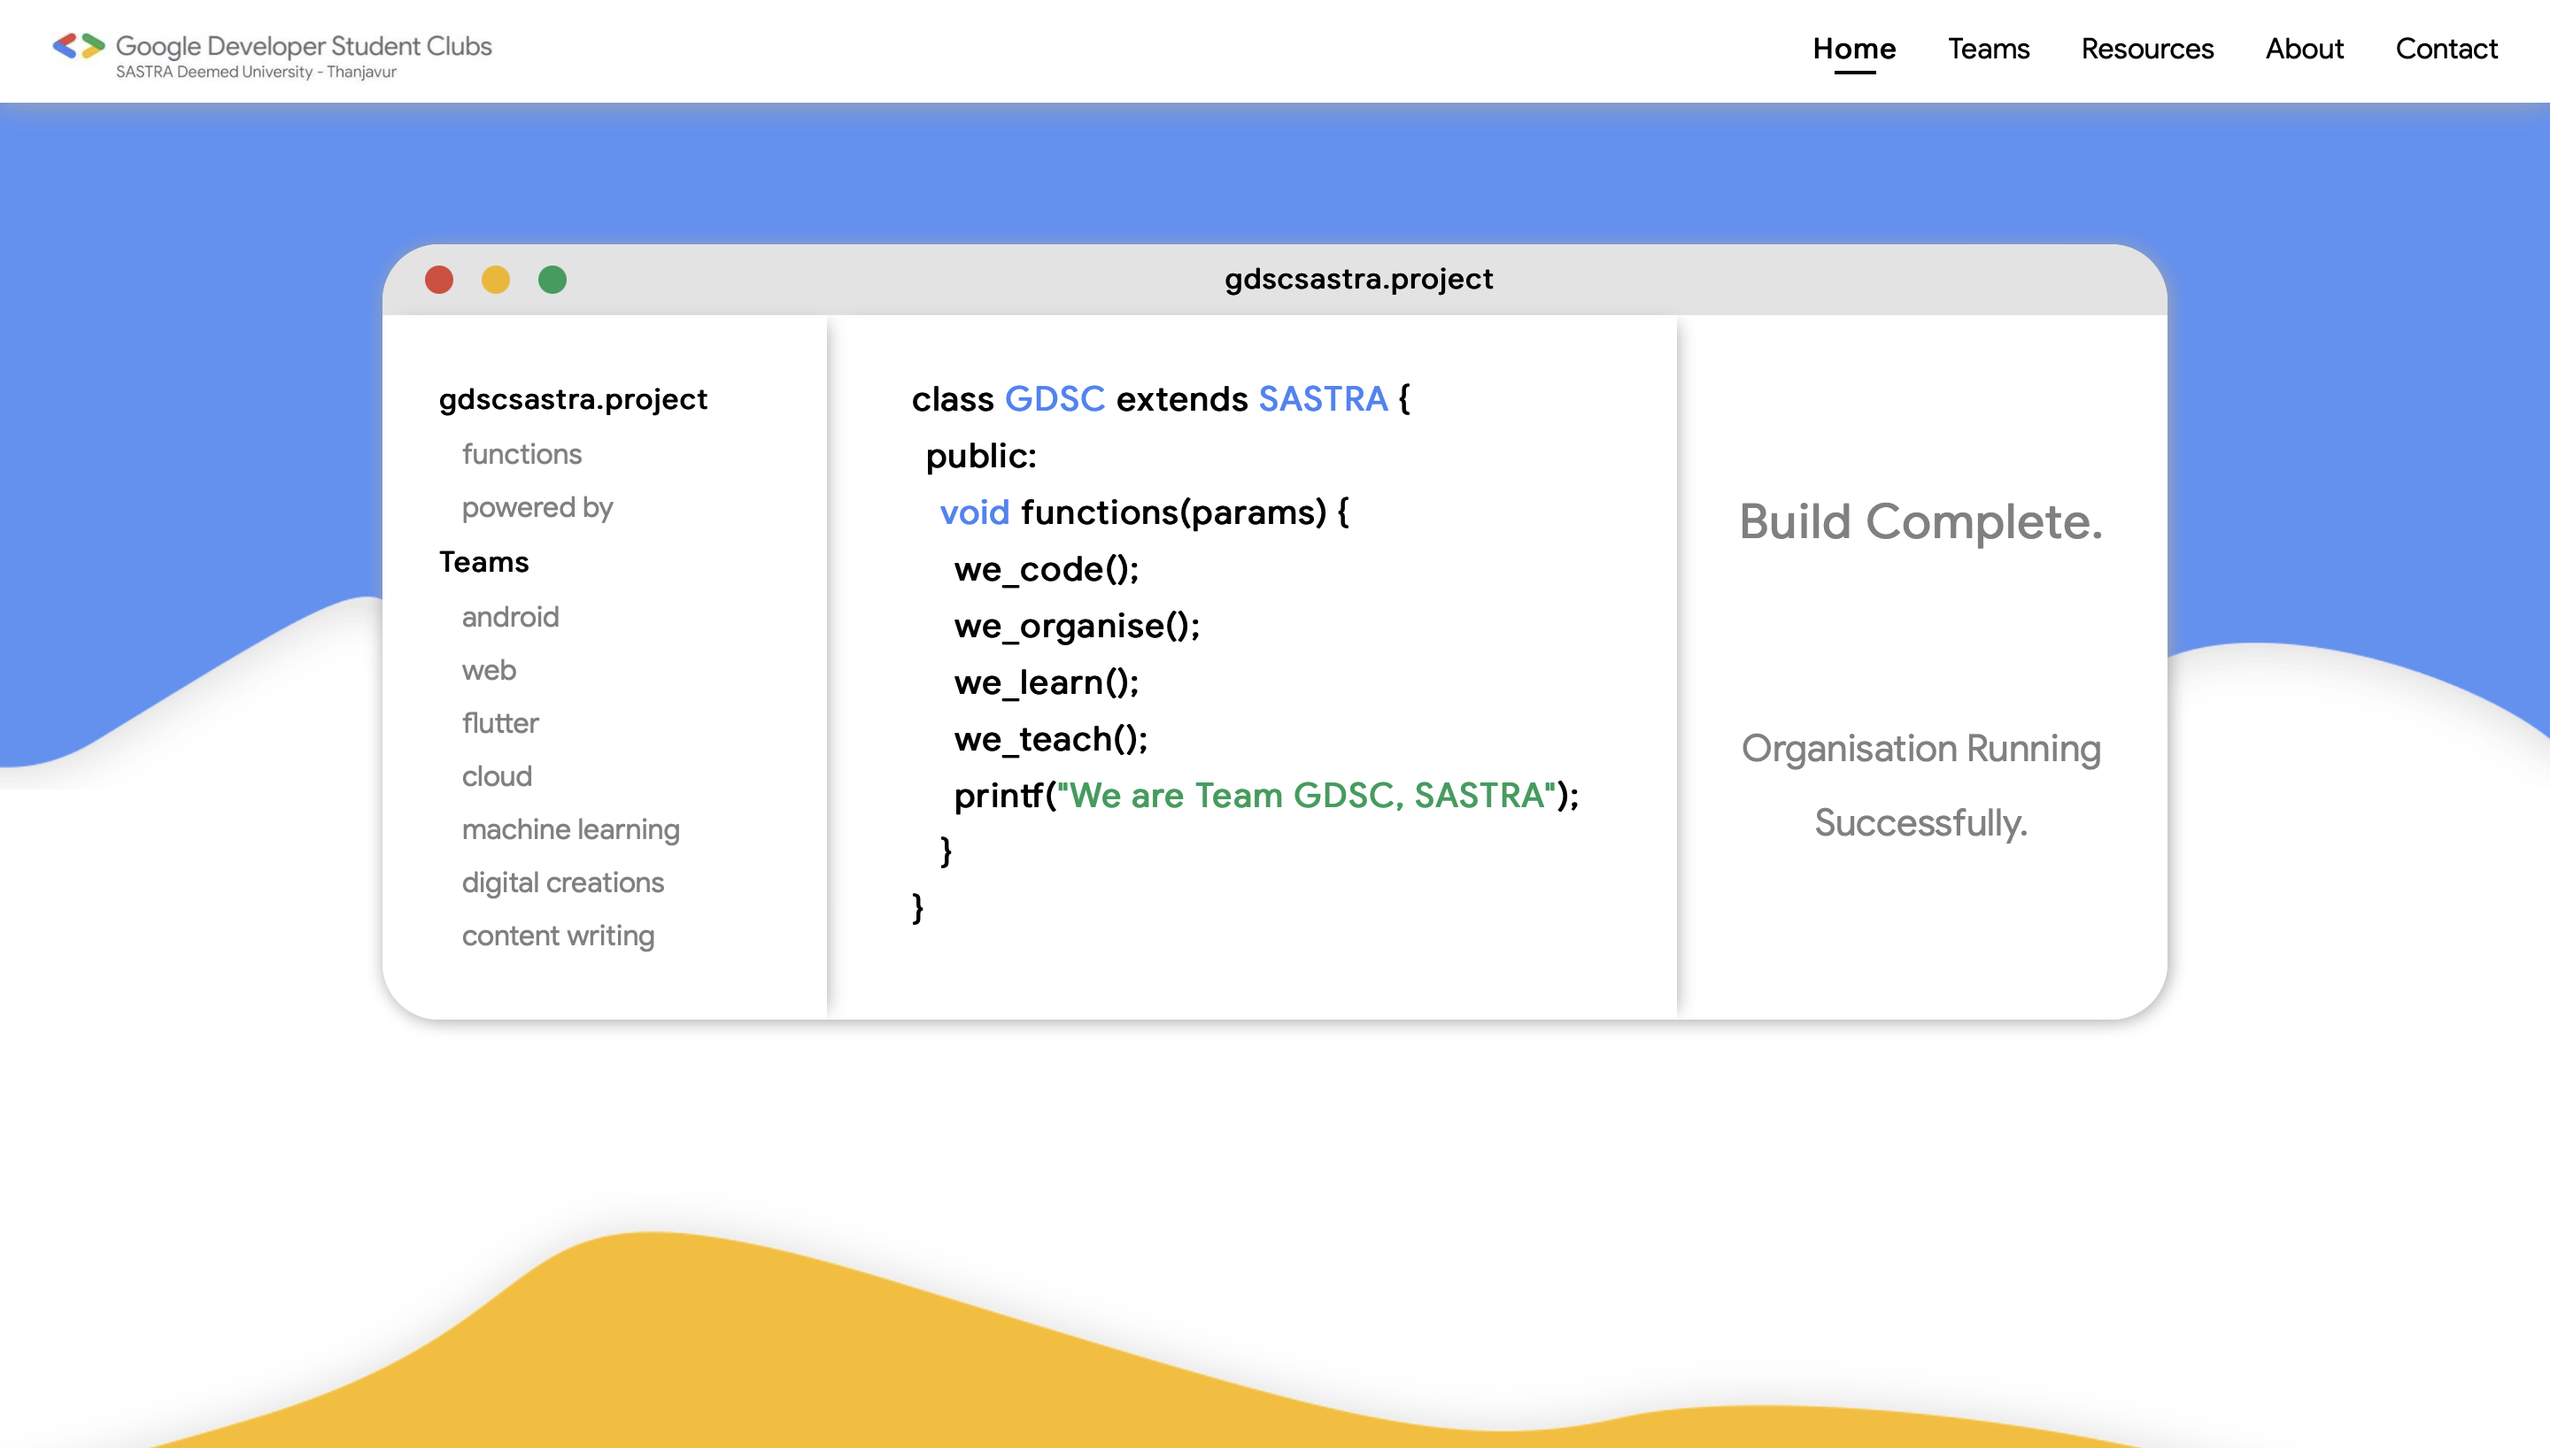
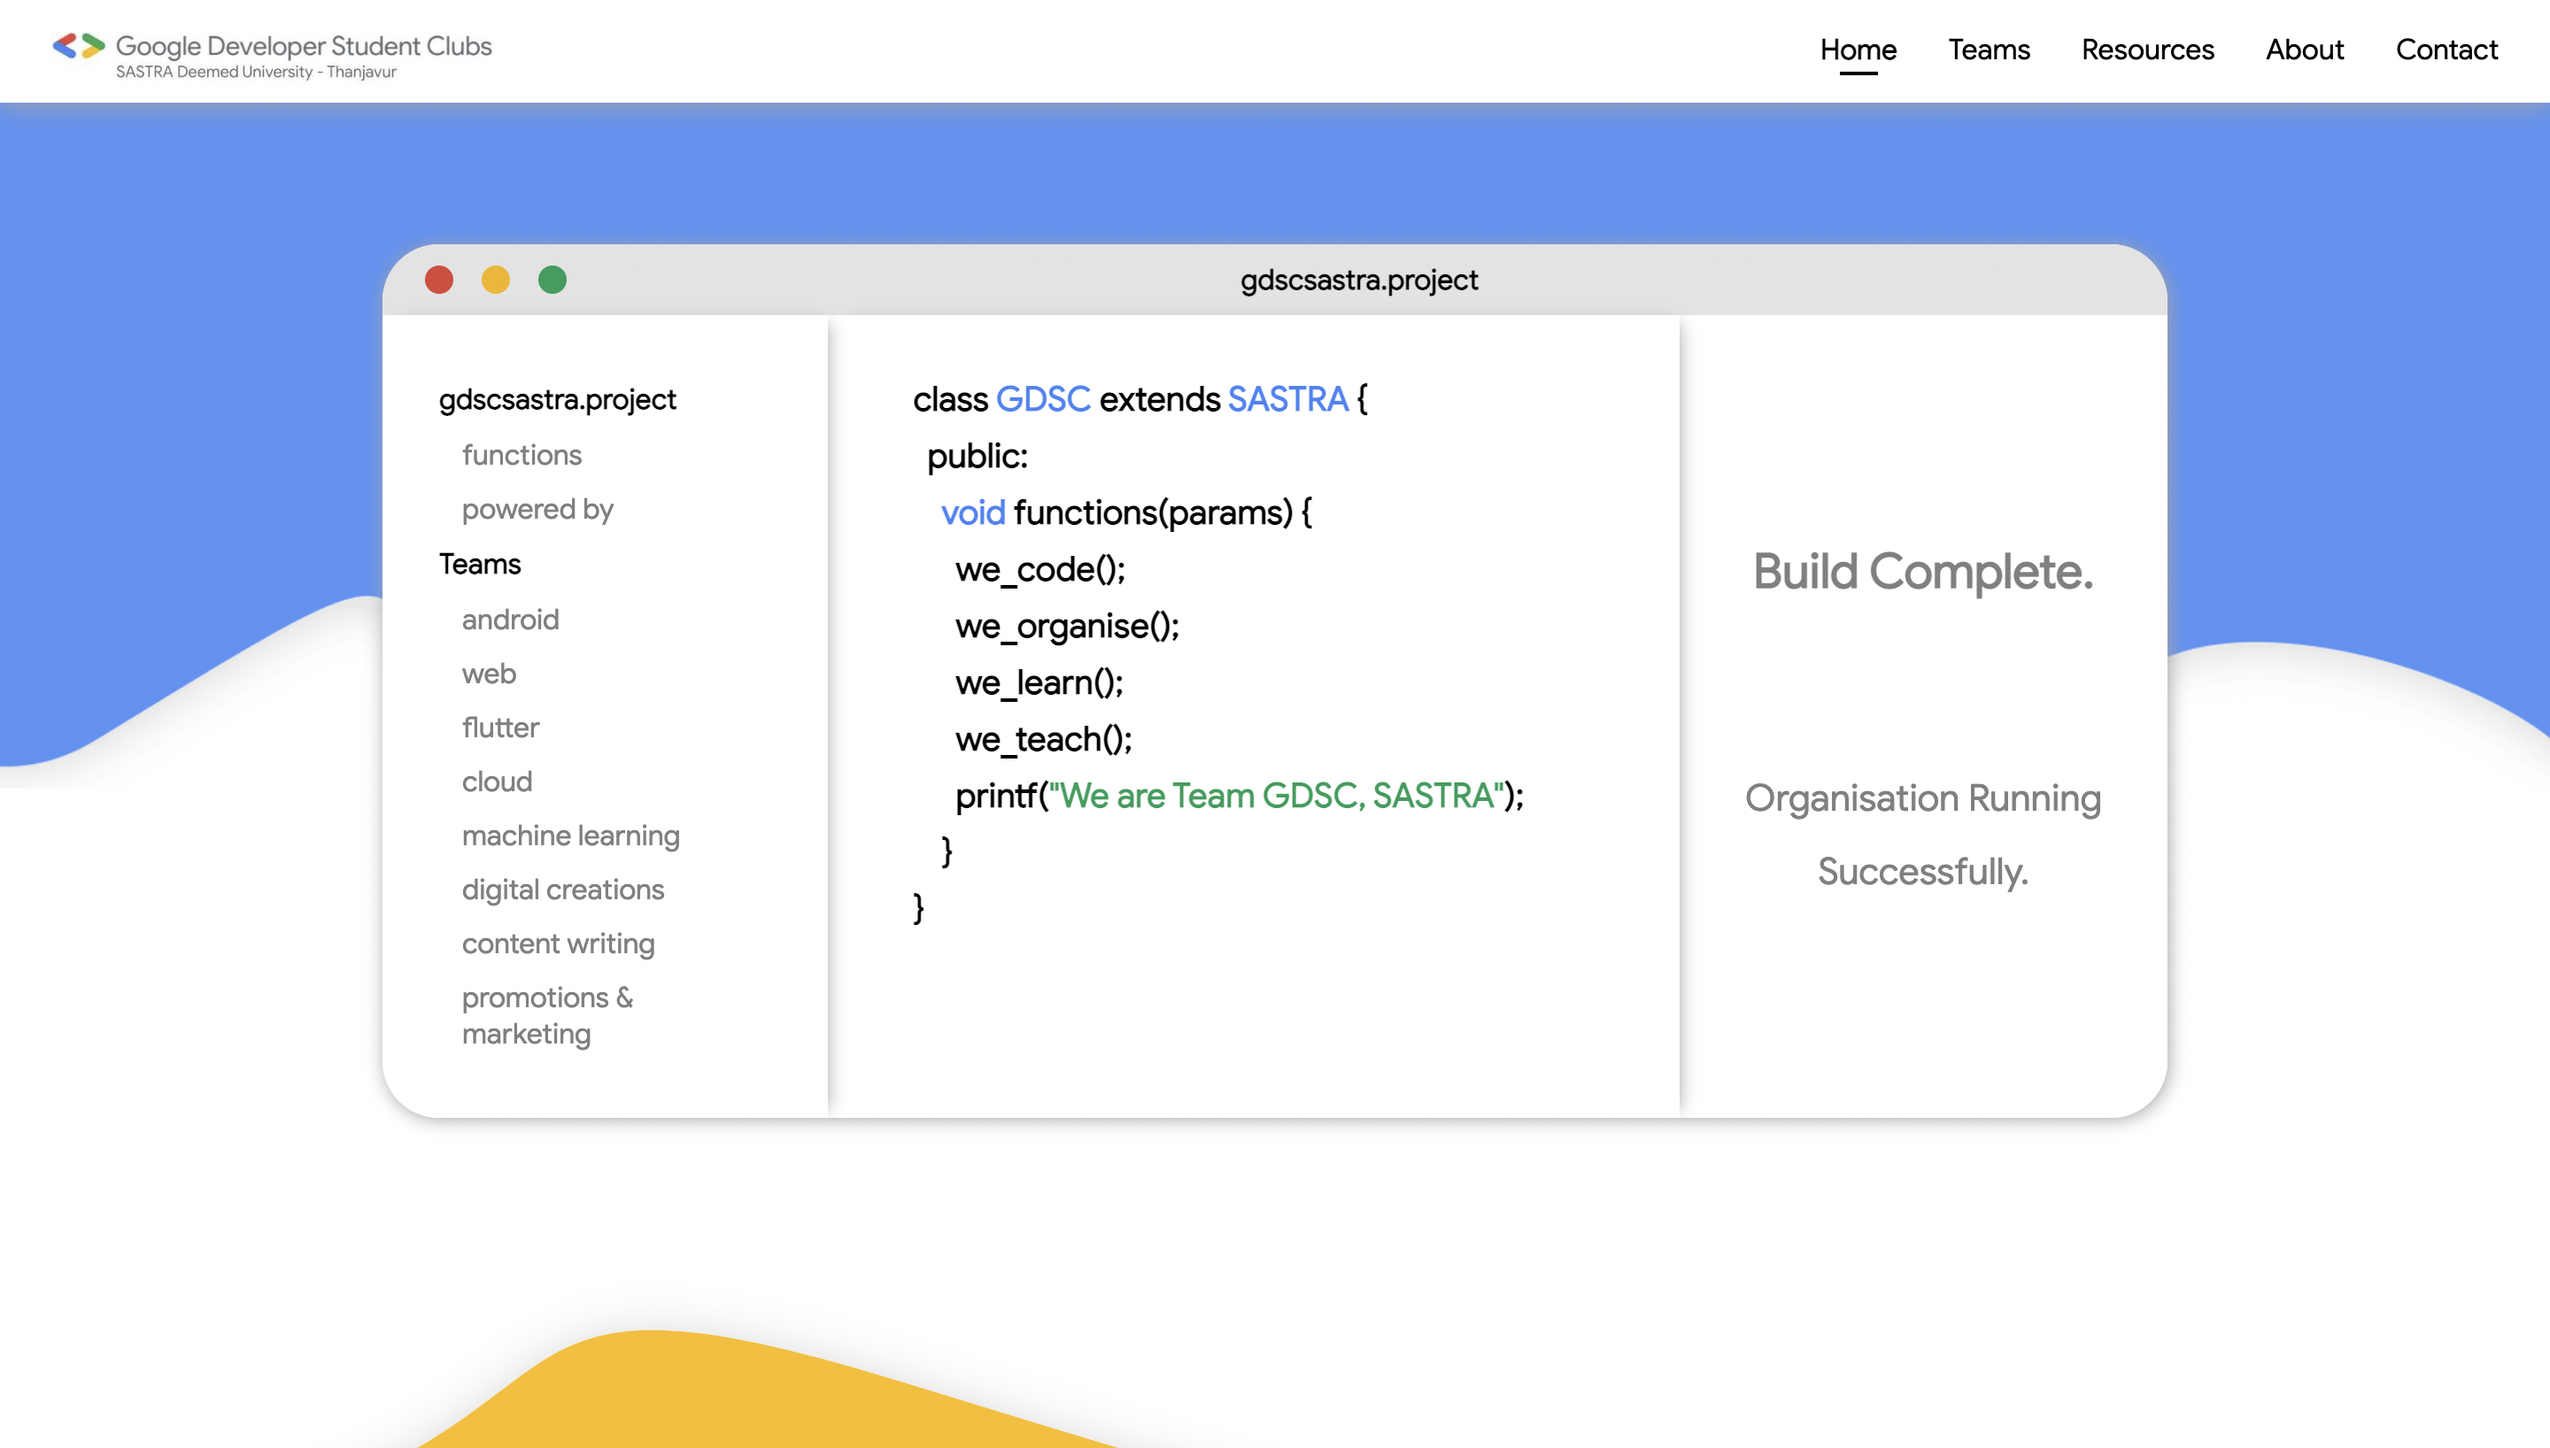
Added PR&M in landing page

diff --git a/src/Pages/Home/Terminal.jsx b/src/Pages/Home/Terminal.jsx
@@ -41,8 +41,8 @@ function Terminal() {
                 {/* <Link to="/">ar / vr</Link> */}
                 <Link to="/teams">digital creations</Link>
                 <Link to="/teams">content writing</Link>
-                {/* <Link to="/">marketing</Link>
-                <Link to="/">event coverage</Link> */}
+                <Link to="/teams">promotions & marketing</Link>
+                {/*<Link to="/">event coverage</Link> */}
               </div>
             </div>
           </div>
